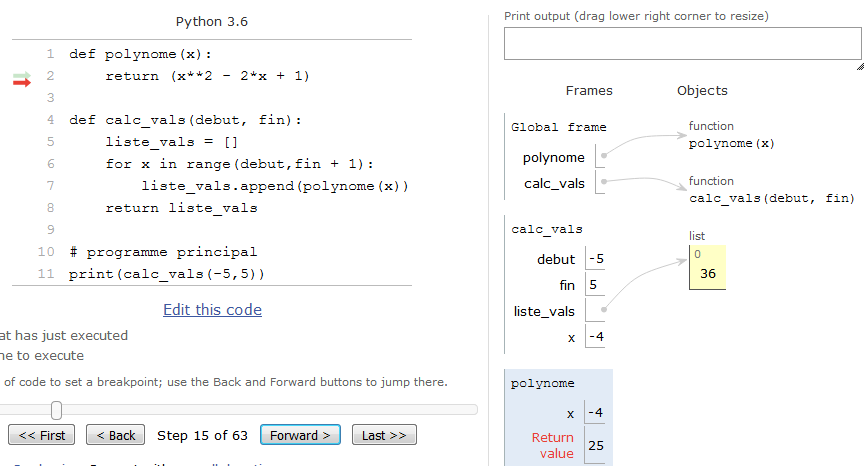
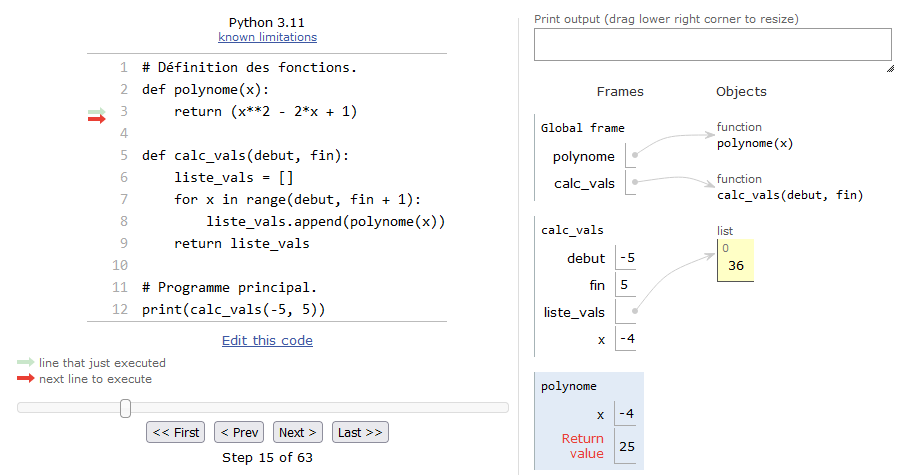
Mets à jours snapshots Python Tutor

diff --git a/13_plus_sur_les_fonctions.md b/13_plus_sur_les_fonctions.md
@@ -10,7 +10,7 @@ Dans ce chapitre, nous allons aller un peu plus loin sur la visibilité de ces v
 Dans le chapitre 9 nous avons vu des fonctions qui étaient appelées depuis le programme principal. Il est en fait possible d'appeler une fonction depuis une autre fonction. Et plus généralement, on peut appeler une fonction de n'importe où à partir du moment où elle est visible par Python (c'est-à-dire chargée dans la mémoire). Observez cet exemple :
 
 ```python
-# définition des fonctions
+# Définition des fonctions.
 def polynome(x):
     return (x**2 - 2*x + 1)
 
@@ -20,7 +20,7 @@ def calc_vals(debut, fin):
         liste_vals.append(polynome(x))
     return liste_vals
 
-# programme principal
+# Programme principal.
 print(calc_vals(-5, 5))
 ```
 
@@ -59,7 +59,7 @@ def calc_factorielle(nb):
     else:
         return nb * calc_factorielle(nb - 1)
 
-# prog principal
+# Programme principal.
 print(calc_factorielle(4))
 ```
 
